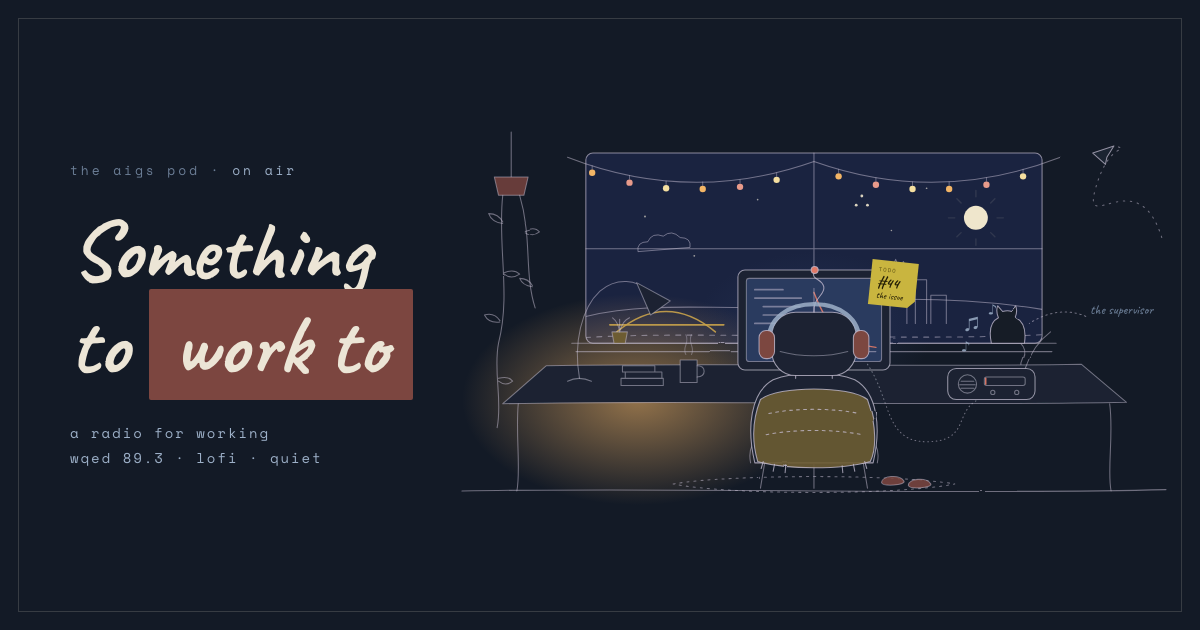
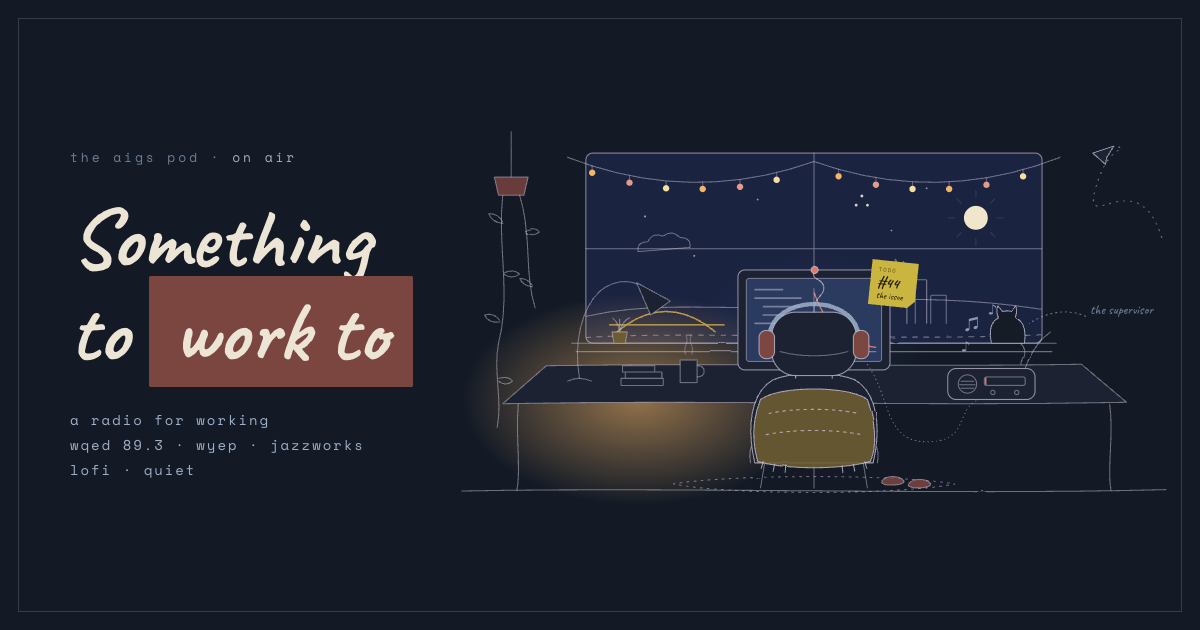
live: wyep and jazzworks on the dial, card regenerated

diff --git a/live/index.html b/live/index.html
@@ -261,7 +261,7 @@ dialog.brief[open]{animation:pop .38s cubic-bezier(.34,1.5,.64,1)}
 <header>
   <div class="eyebrow">00 / <b>the aigs pod</b> · on air</div>
   <h1>Something to <span class="hl">work to</span></h1>
-  <p class="lede">Three stations for the long middle of a hackathon: <b>Pittsburgh classical</b>, <b>lofi beats to study to</b>, and <b>quiet ambient</b> for when even beats feel like too many opinions. Turn the dial. The robot has headphones on and will not notice.</p>
+  <p class="lede">Five stations for the long middle of a hackathon: <b>Pittsburgh classical</b>, <b>Pittsburgh indie</b>, <b>Pittsburgh jazz</b>, <b>lofi beats to study to</b>, and <b>quiet ambient</b> for when even beats feel like too many opinions. Turn the dial. The robot has headphones on and will not notice.</p>
 </header>
 
 <section>
@@ -472,6 +472,16 @@ dialog.brief[open]{animation:pop .38s cubic-bezier(.34,1.5,.64,1)}
       <div class="links"><a href="https://www.wqed.org/listen-live-wqed-fm-89-3/" target="_blank" rel="noopener">listen at wqed.org</a><a href="https://ice-1.streamhoster.com/lv_wqed--893" target="_blank" rel="noopener">raw stream</a></div>
     </div>
     <div class="station">
+      <h3>WYEP 91.3</h3>
+      <p>Indie, roots and whatever the host fell for this week, live from Pittsburgh's South Side.</p>
+      <div class="links"><a href="https://www.wyep.org/" target="_blank" rel="noopener">wyep.org</a><a href="https://ais-sa3.cdnstream1.com/2557_128.mp3" target="_blank" rel="noopener">raw stream</a></div>
+    </div>
+    <div class="station">
+      <h3>JazzWorks</h3>
+      <p>Jazz at every hour, out of Pittsburgh. Good company for a long-running job.</p>
+      <div class="links"><a href="http://jazzworks.net/" target="_blank" rel="noopener">jazzworks.net</a><a href="https://ais-sa3.cdnstream1.com/2558_128.mp3" target="_blank" rel="noopener">raw stream</a></div>
+    </div>
+    <div class="station">
       <h3>I♥CHILLHOP</h3>
       <p>Chillhop and lofi beats from ilovemusic.de. The cat approves, as far as anyone can tell.</p>
       <div class="links"><a href="https://ilovemusic.de/" target="_blank" rel="noopener">ilovemusic.de</a><a href="https://streams.ilovemusic.de/iloveradio17.mp3" target="_blank" rel="noopener">raw stream</a></div>
@@ -552,7 +562,13 @@ const STATIONS=[
   {id:'wqed', f:89.3, name:'89.3 · wqed', sub:'classical, pittsburgh', kind:'stream',
    urls:['https://ice-1.streamhoster.com/lv_wqed--893'],
    idle:'live classical from pittsburgh. no track list, just trust.'},
-  {id:'lofi', f:97.9, name:'lofi', sub:'beats to study to', kind:'stream',
+  {id:'wyep', f:93.5, name:'wyep', sub:'indie, pittsburgh', kind:'stream',
+   urls:['https://ais-sa3.cdnstream1.com/2557_128.mp3'],
+   idle:'wyep, from the south side. new records and old favourites, picked by people.'},
+  {id:'jazz', f:97.7, name:'jazzworks', sub:'jazz, pittsburgh', kind:'stream',
+   urls:['https://ais-sa3.cdnstream1.com/2558_128.mp3'],
+   idle:'jazzworks, around the clock. brushes on a snare, somebody thinking out loud on a horn.'},
+  {id:'lofi', f:101.8, name:'lofi', sub:'beats to study to', kind:'stream',
    urls:['https://streams.ilovemusic.de/iloveradio17.mp3','https://live.hunter.fm/lofi_high'],
    idle:'chillhop, soft and slightly dusty. good for refactoring.'},
   {id:'quiet', f:105.9, name:'quiet', sub:'ambient, no drums', kind:'stream',

diff --git a/tools/og/live-og.html b/tools/og/live-og.html
@@ -35,7 +35,7 @@ body{background:var(--cream)}
   <div class="words">
     <div class="eyebrow">the aigs pod · <b>on air</b></div>
     <h1>Something<br>to <span class="hl">work to</span></h1>
-    <div class="sub">a radio for working<br>wqed 89.3 · lofi · quiet</div>
+    <div class="sub">a radio for working<br>wqed 89.3 · wyep · jazzworks<br>lofi · quiet</div>
   </div>
   <div class="scene" id="scene"></div>
 </div>
